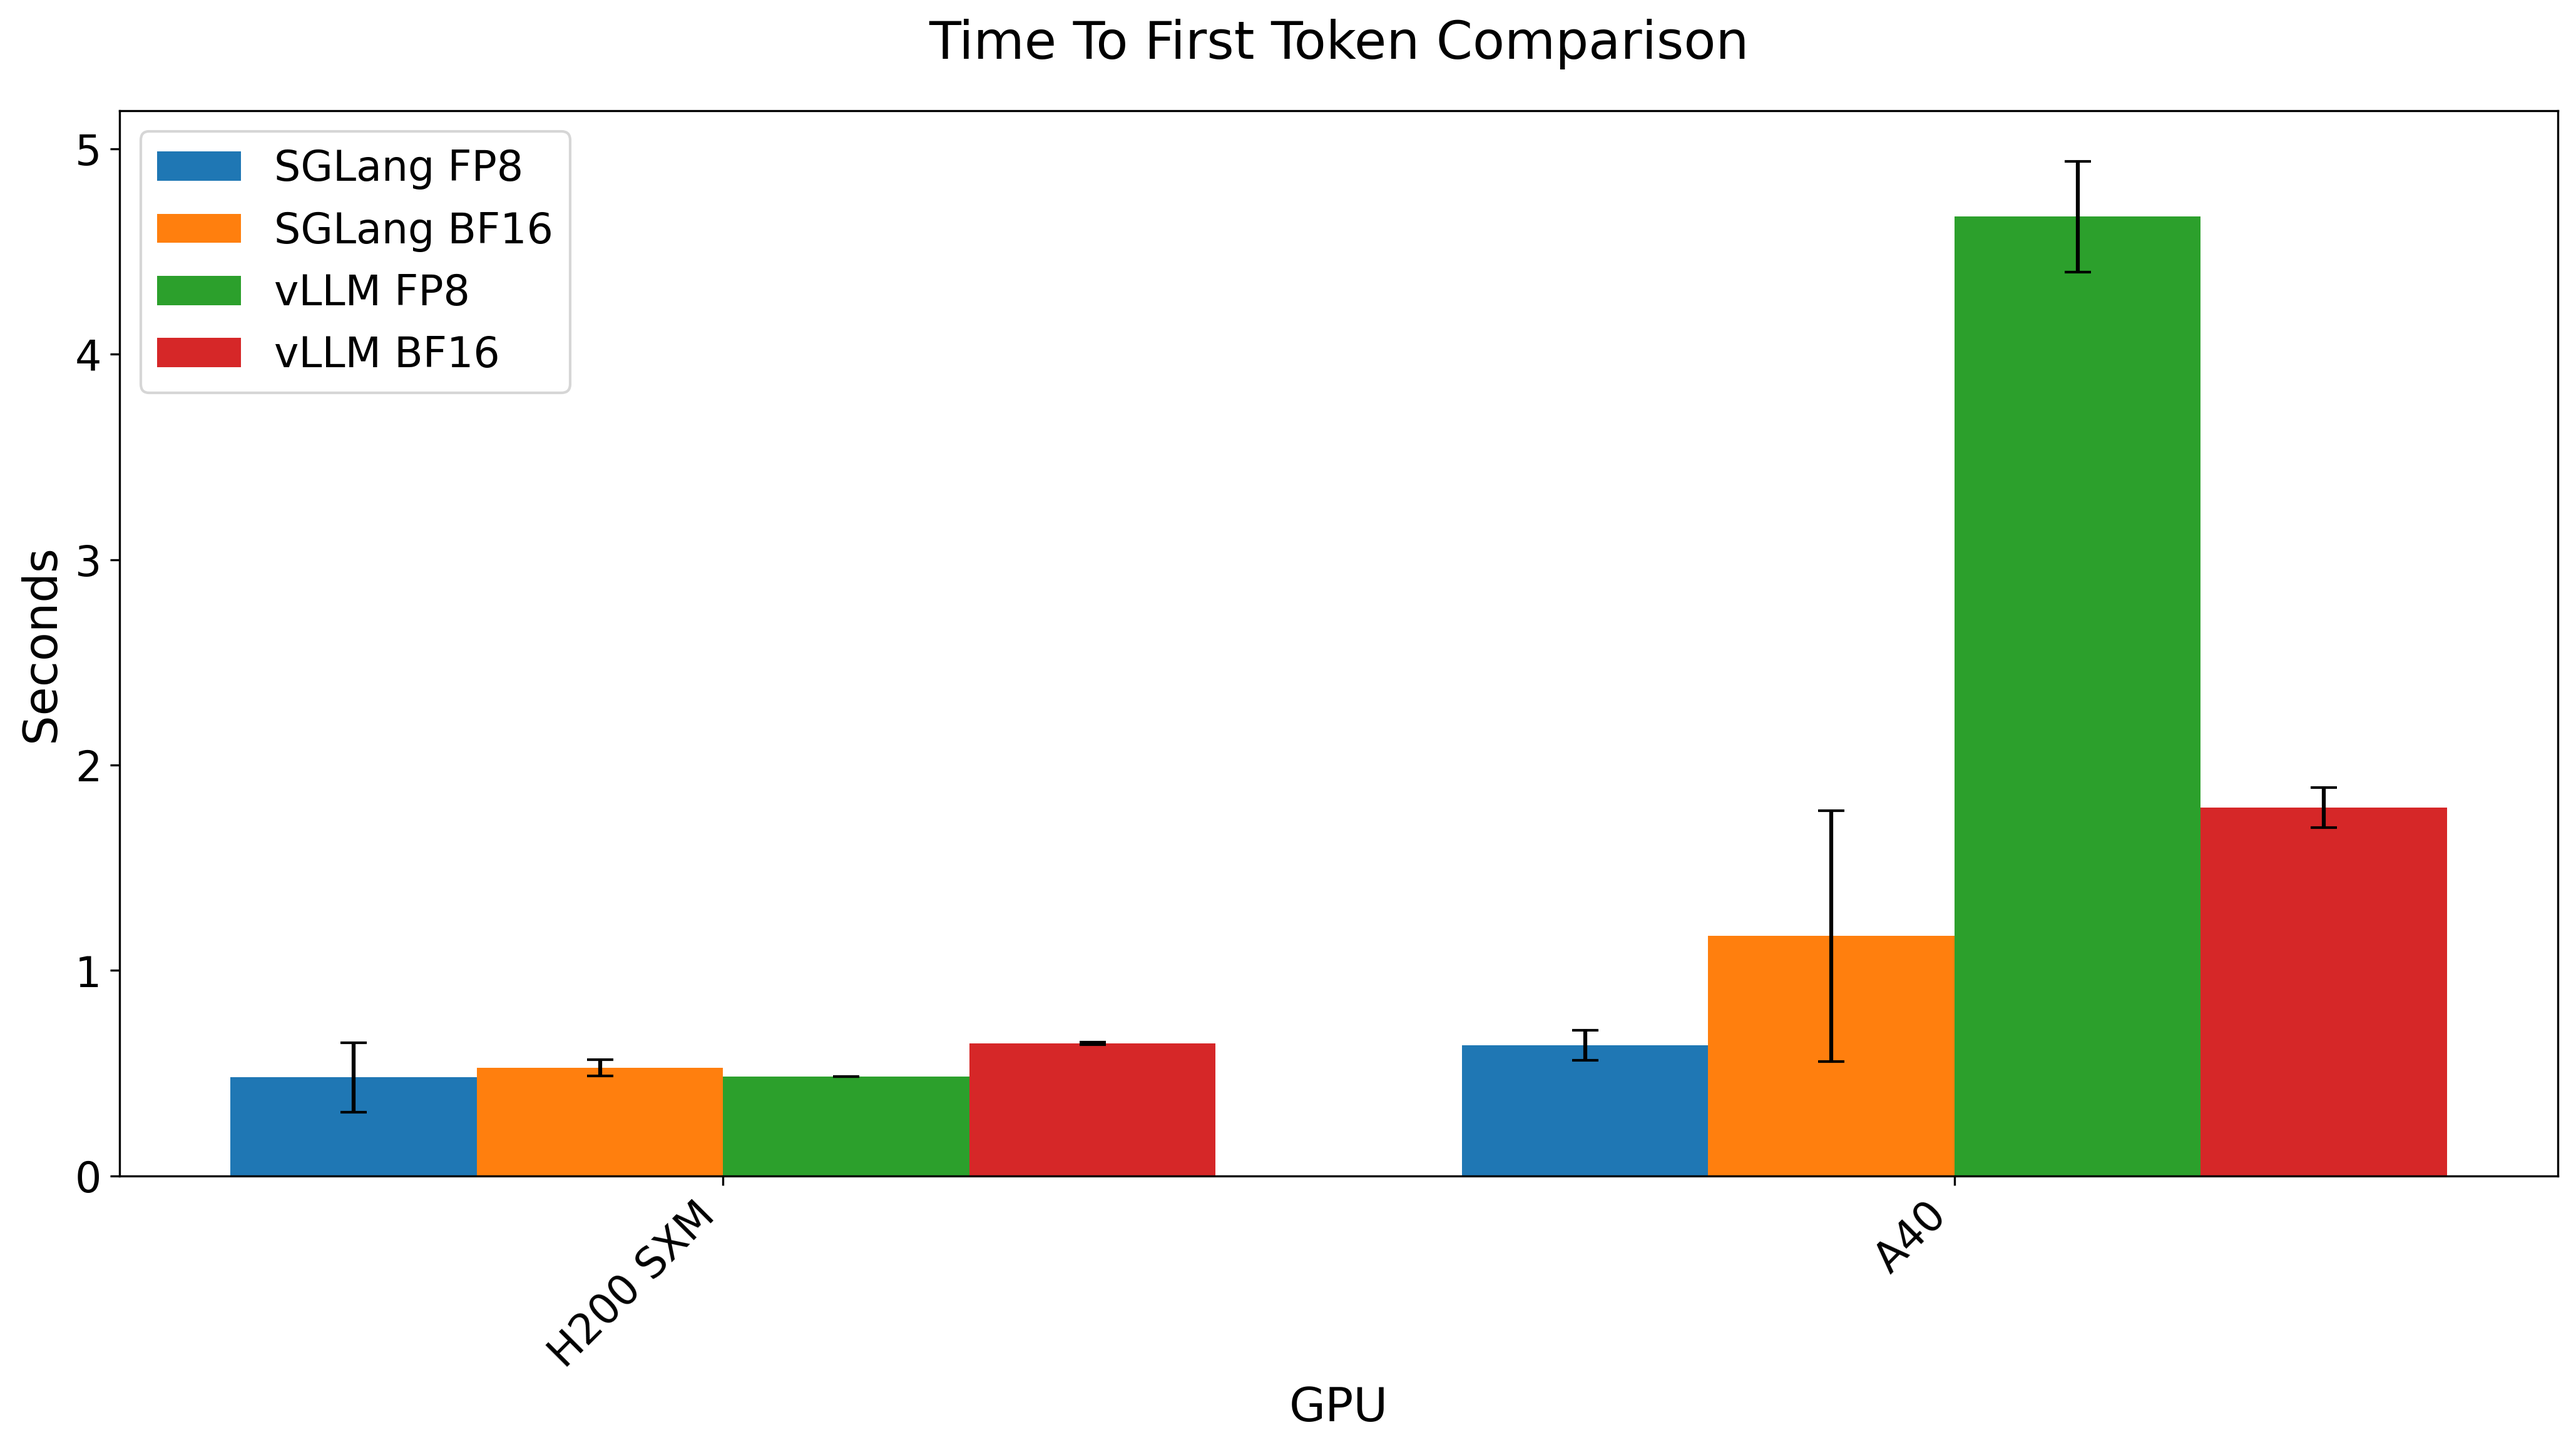
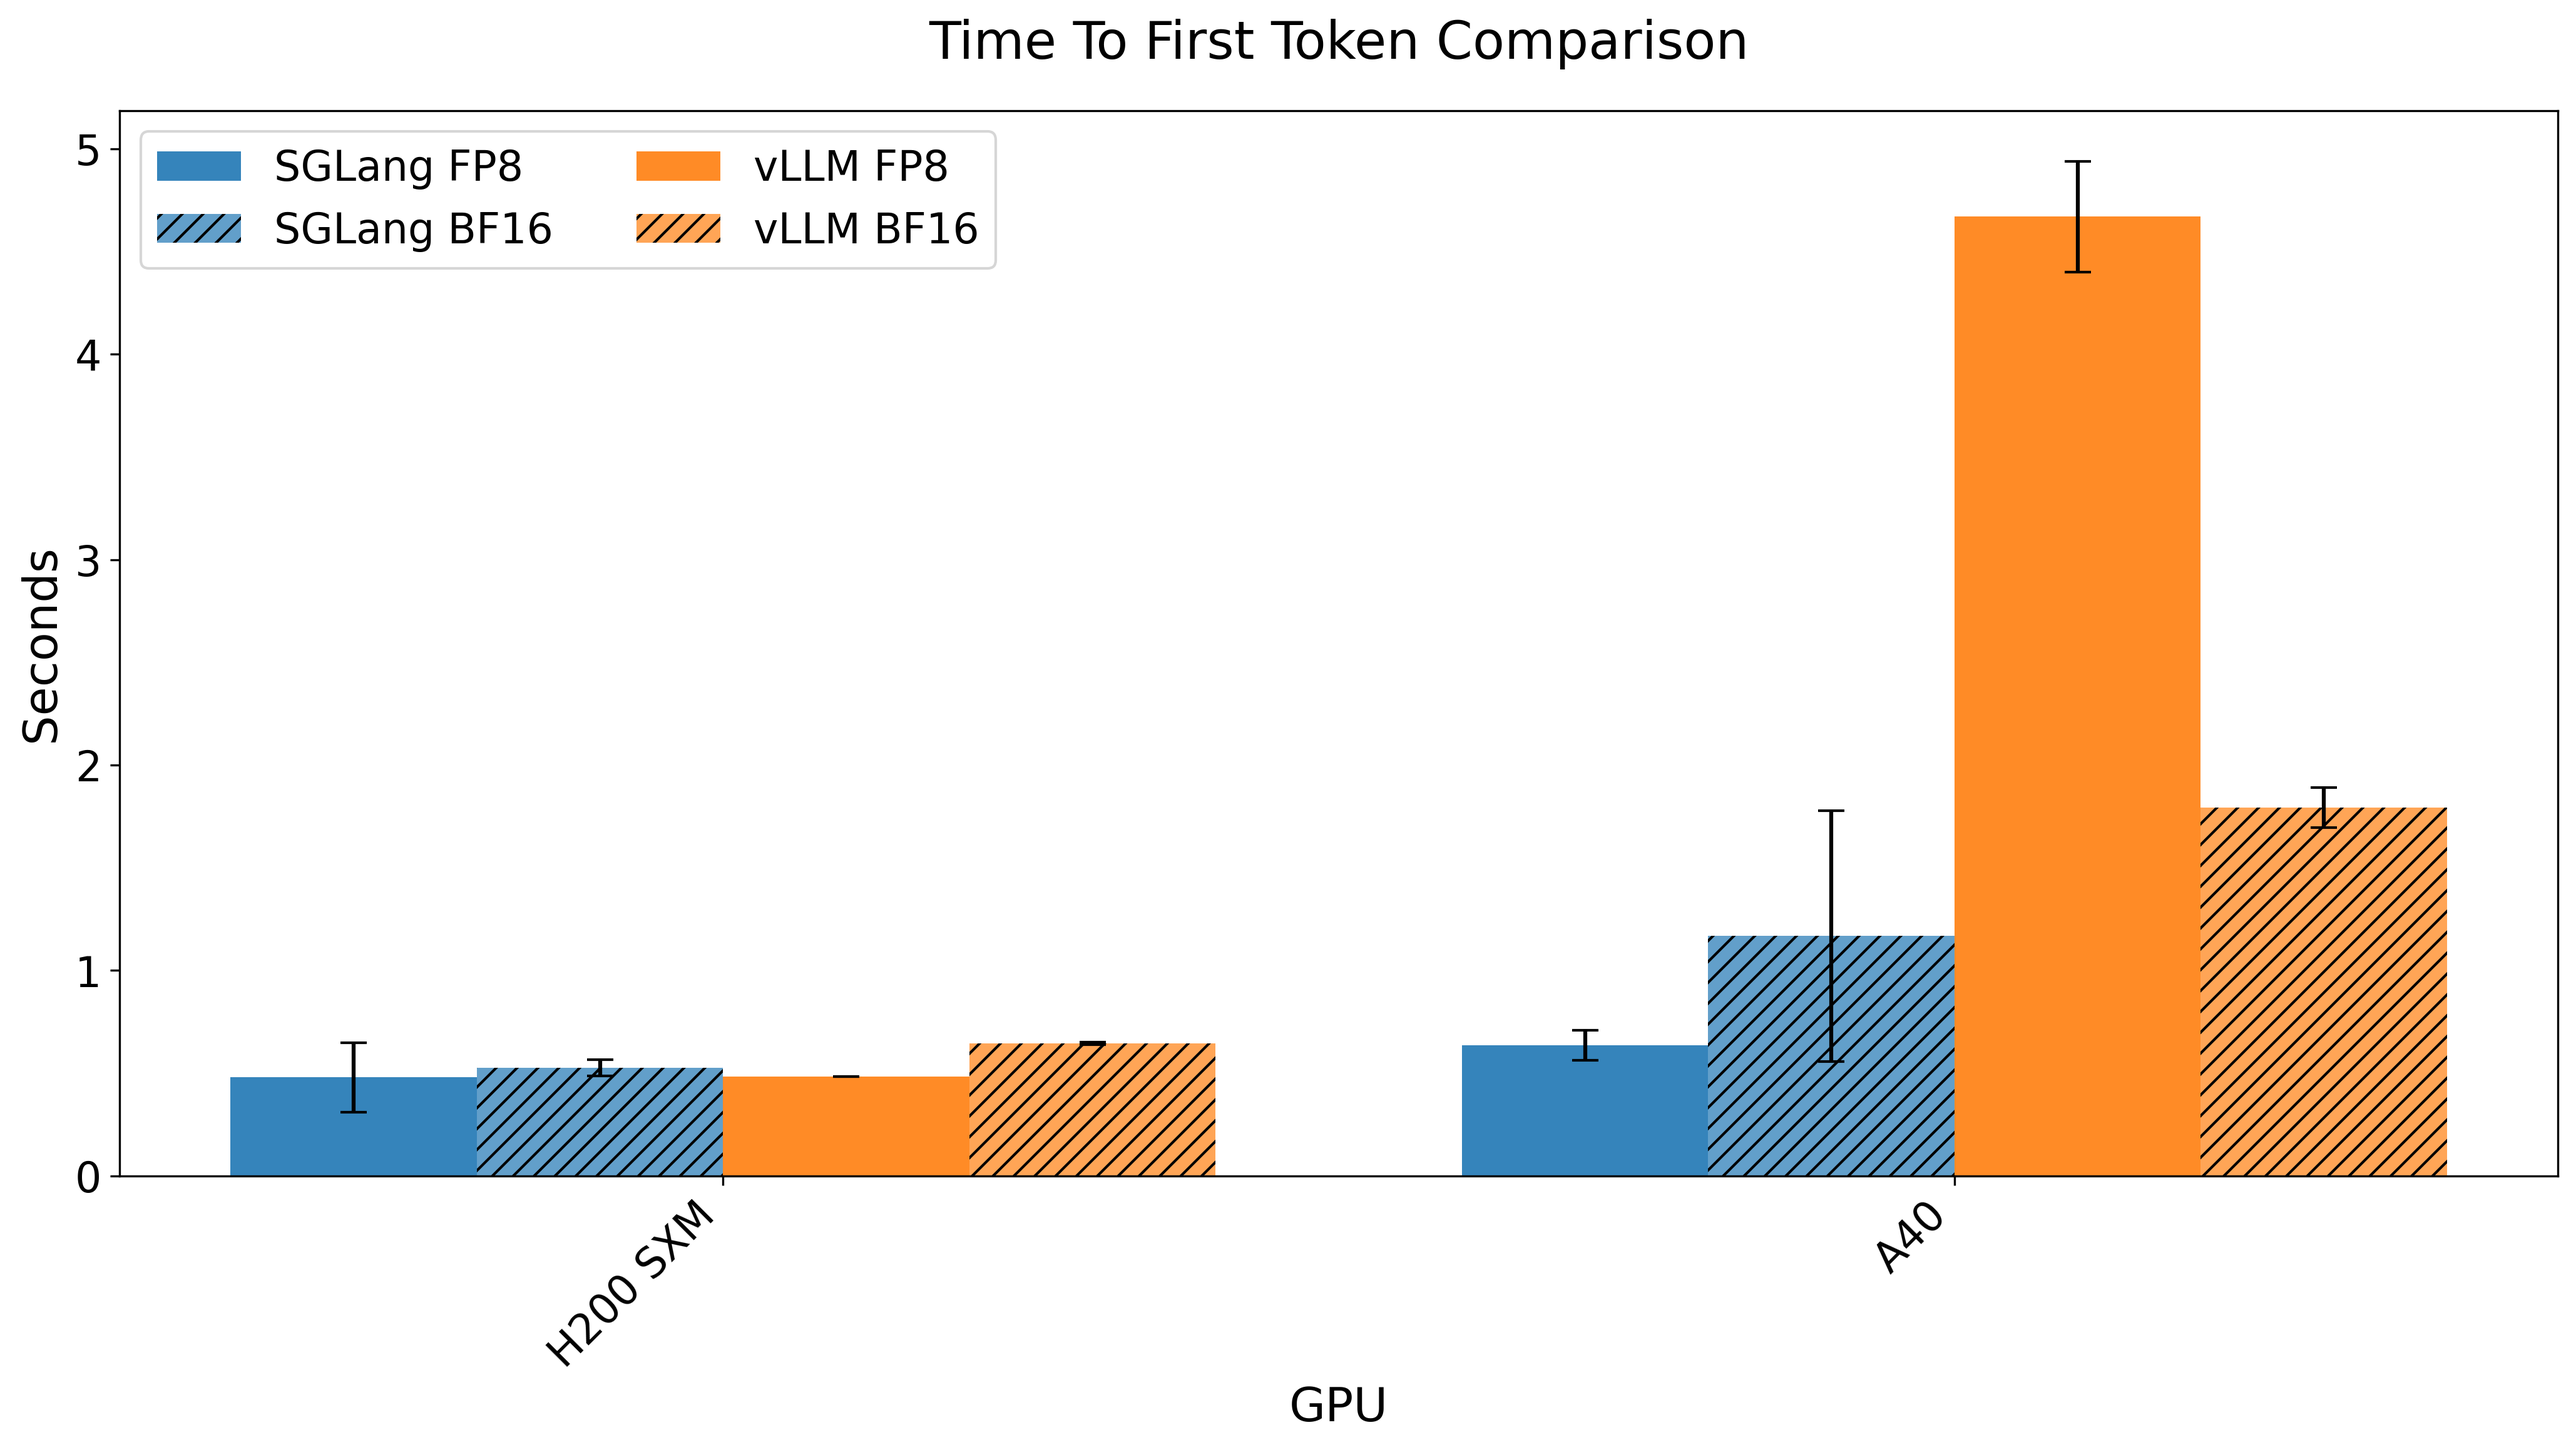
Update comparison plots and enhance bar plotting functionality
- Updated binary comparison plots for price, throughput, and TTFT.
- Refactored `create_comparison_plot` function in `compare_frameworks.py` to improve bar plotting with configurable color schemes and hatching for better visual distinction between SGLang and vLLM results.
- Adjusted legend layout for improved readability.

diff --git a/scripts/compare_frameworks.py b/scripts/compare_frameworks.py
@@ -20,11 +20,50 @@ def create_comparison_plot(metric_name, df_base, df_vllm, title, ylabel, filenam
     plt.figure(figsize=(14, 8))
     
     if gpu_order is None:
-        # Get all unique GPUs from both dataframes
         gpu_order = sorted(set(df_base['gpu_info'].unique()) | set(df_vllm['gpu_info'].unique()))
     
-    width = 0.2  # Make bars slightly narrower to fit 4 bars
+    width = 0.2
     x = np.arange(len(gpu_order))
+    
+    # Define color schemes
+    sglang_color = '#1f77b4'  # blue
+    vllm_color = '#ff7f0e'    # orange
+    
+    # Configuration for each bar type
+    bar_configs = [
+        {
+            'df': df_base,
+            'dtype': 'FP8',
+            'color': sglang_color,
+            'label': 'SGLang FP8',
+            'hatch': '',
+            'position': -width*1.5
+        },
+        {
+            'df': df_base,
+            'dtype': 'BF16',
+            'color': sglang_color,
+            'label': 'SGLang BF16',
+            'hatch': '///',
+            'position': -width/2
+        },
+        {
+            'df': df_vllm,
+            'dtype': 'FP8',
+            'color': vllm_color,
+            'label': 'vLLM FP8',
+            'hatch': '',
+            'position': width/2
+        },
+        {
+            'df': df_vllm,
+            'dtype': 'BF16',
+            'color': vllm_color,
+            'label': 'vLLM BF16',
+            'hatch': '///',
+            'position': width*1.5
+        }
+    ]
     
     # Function to get data for a specific framework and data type
     def get_framework_data(df, gpu_list, data_type):
@@ -46,27 +85,25 @@ def create_comparison_plot(metric_name, df_base, df_vllm, title, ylabel, filenam
             errors.append(error)
         return data, errors
     
-    # Plot bars for each framework and data type
-    positions = [-width*1.5, -width/2, width/2, width*1.5]
-    labels = ['SGLang FP8', 'SGLang BF16', 'vLLM FP8', 'vLLM BF16']
-    
-    data_configs = [
-        (df_base, 'FP8'),    # SGLang FP8
-        (df_base, 'BF16'),   # SGLang BF16
-        (df_vllm, 'FP8'),    # vLLM FP8
-        (df_vllm, 'BF16')    # vLLM BF16
-    ]
-    
-    for pos, label, (df, dtype) in zip(positions, labels, data_configs):
-        data, errors = get_framework_data(df, gpu_order, dtype)
-        plt.bar(x + pos, data, width, label=label, yerr=errors, capsize=5)
+    # Plot bars
+    for config in bar_configs:
+        data, errors = get_framework_data(config['df'], gpu_order, config['dtype'])
+        plt.bar(x + config['position'], 
+               data, 
+               width, 
+               label=config['label'],
+               color=config['color'],
+               hatch=config['hatch'],
+               yerr=errors,
+               capsize=5,
+               alpha=0.9 if config['hatch'] == '' else 0.7)  # Slightly transparent for BF16
     
     plt.xlabel('GPU', fontsize=18)
     plt.ylabel(ylabel, fontsize=18)
     plt.title(title, fontsize=20, pad=20)
     plt.xticks(x, gpu_order, rotation=45, ha='right', fontsize=16)
     plt.yticks(fontsize=16)
-    plt.legend(fontsize=16)
+    plt.legend(fontsize=16, ncol=2)  # Two columns for legend
     
     plt.tight_layout()
     plt.savefig(f'comparison_plots/{filename}.png', dpi=300, bbox_inches='tight')
